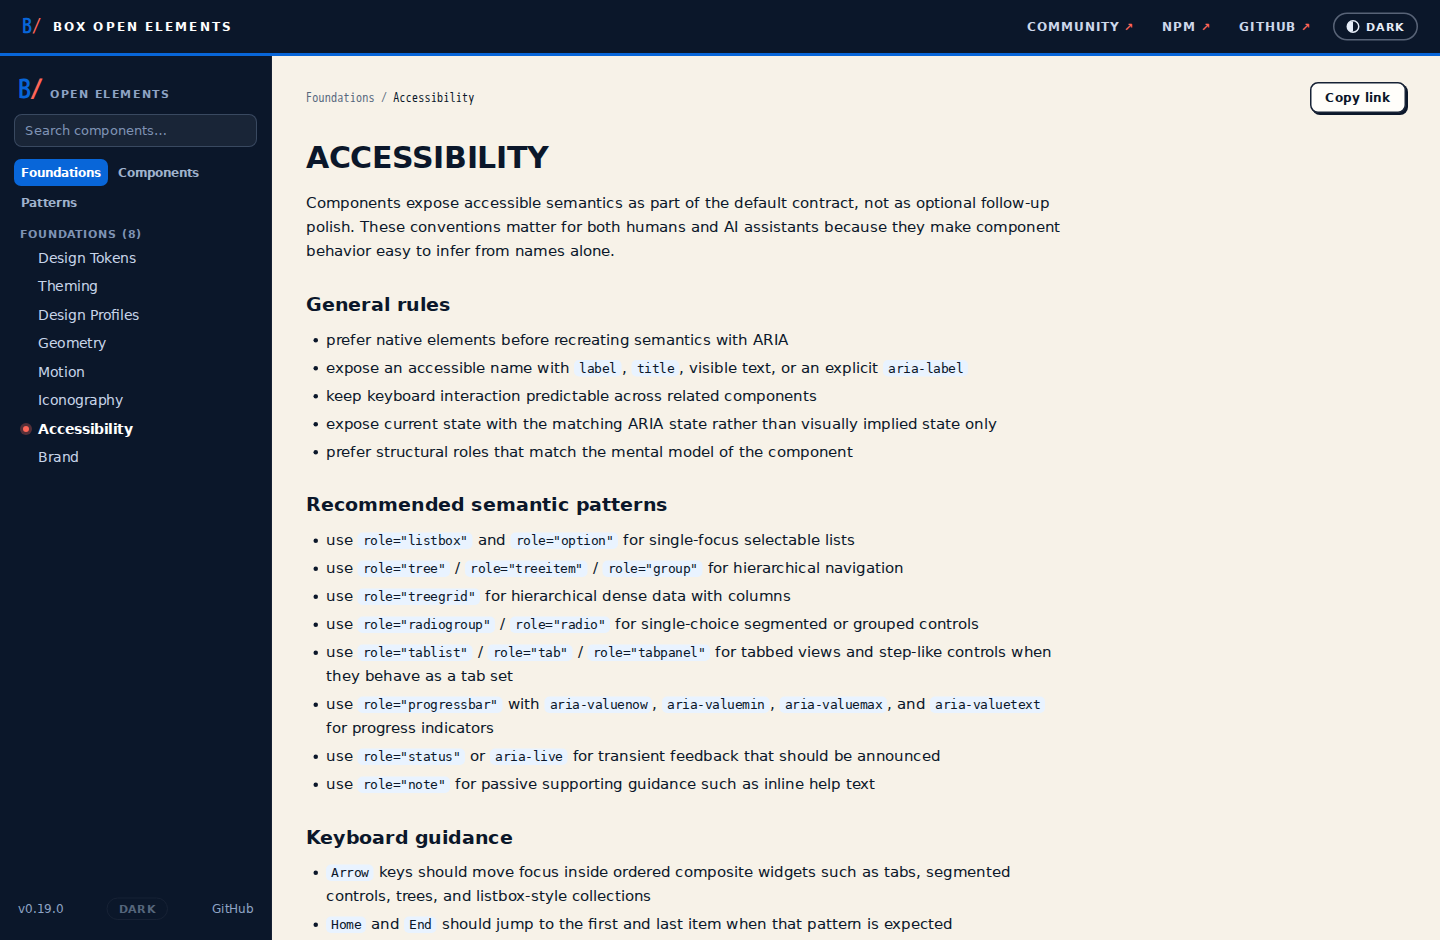
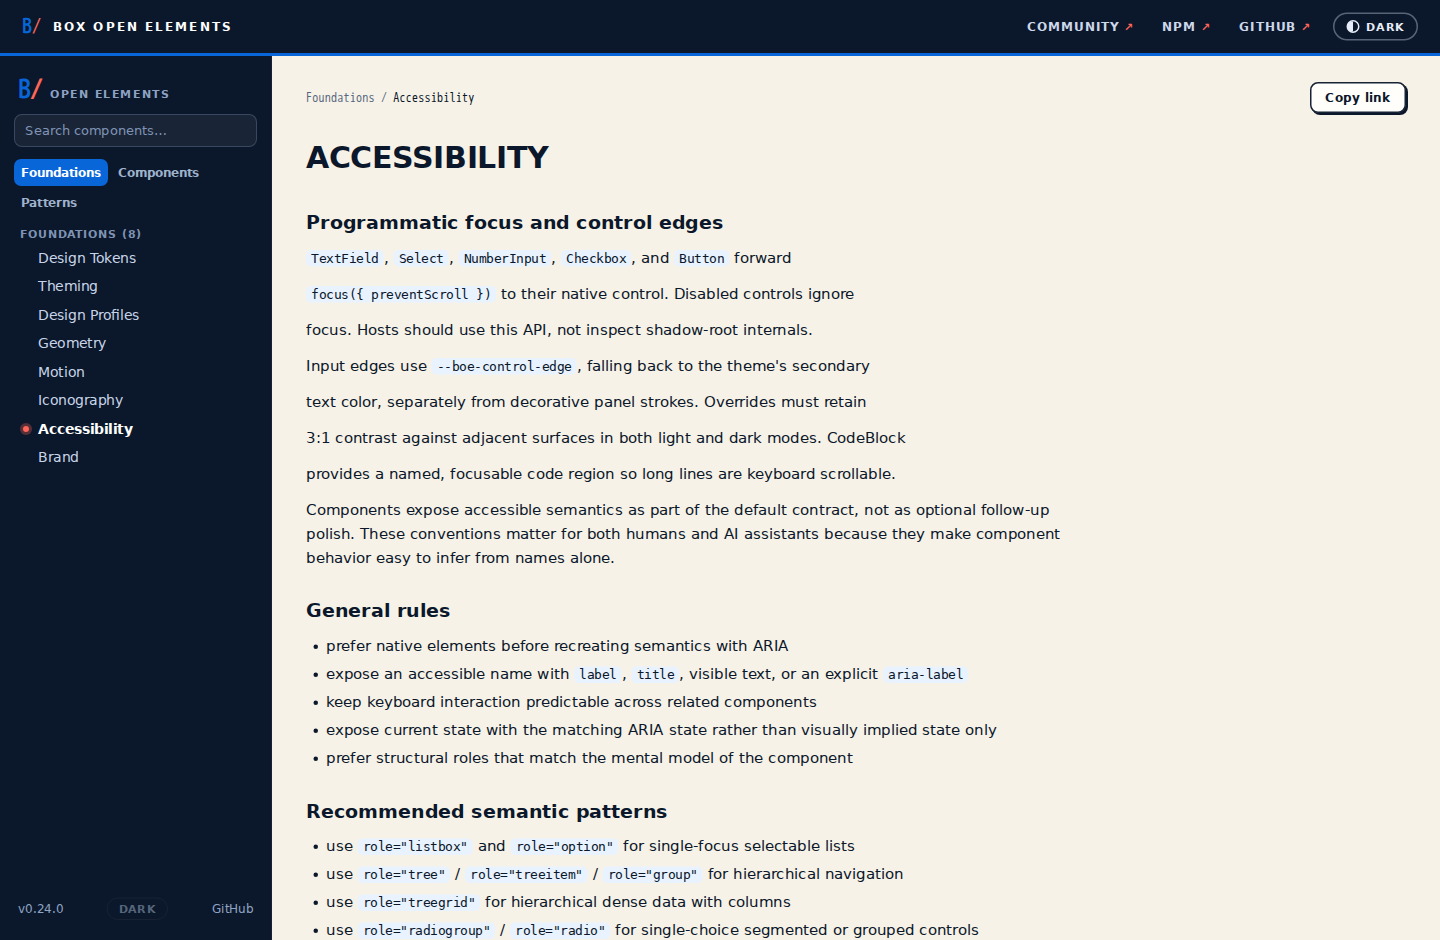
Update reviewed accessibility and text-action visual baselines

Changed region(s): [[0.2188, 0.3085, 0.75, 1.0], [0.1875, 0.216, 0.75, 0.2777]]

diff --git a/plans/open-issues-303-315.md b/plans/open-issues-303-315.md
@@ -142,6 +142,13 @@ visual baselines without inspecting the changes. Preserve unrelated edits.
 
 Issue source: https://github.com/unofficialbox/box-open-elements/issues (303-315).
 
+PR #316 contains the completed implementation. Initial CI verification and
+conformance passed. The pinned-container pixel gate identified five intentional
+changes: form-control edges in gallery/forms and patterns/form-wizard, the new
+text-action Button example in light/dark, and accessibility documentation.
+Reviewed the fresh captures and pixel diffs before adopting only these five
+baselines. Pixel thresholds remain unchanged; publication requires green CI.
+
 ## Interfaces and Dependencies
 
 Preserve parts and current attributes. Add focus forwarding, FlowBuilder narrow
